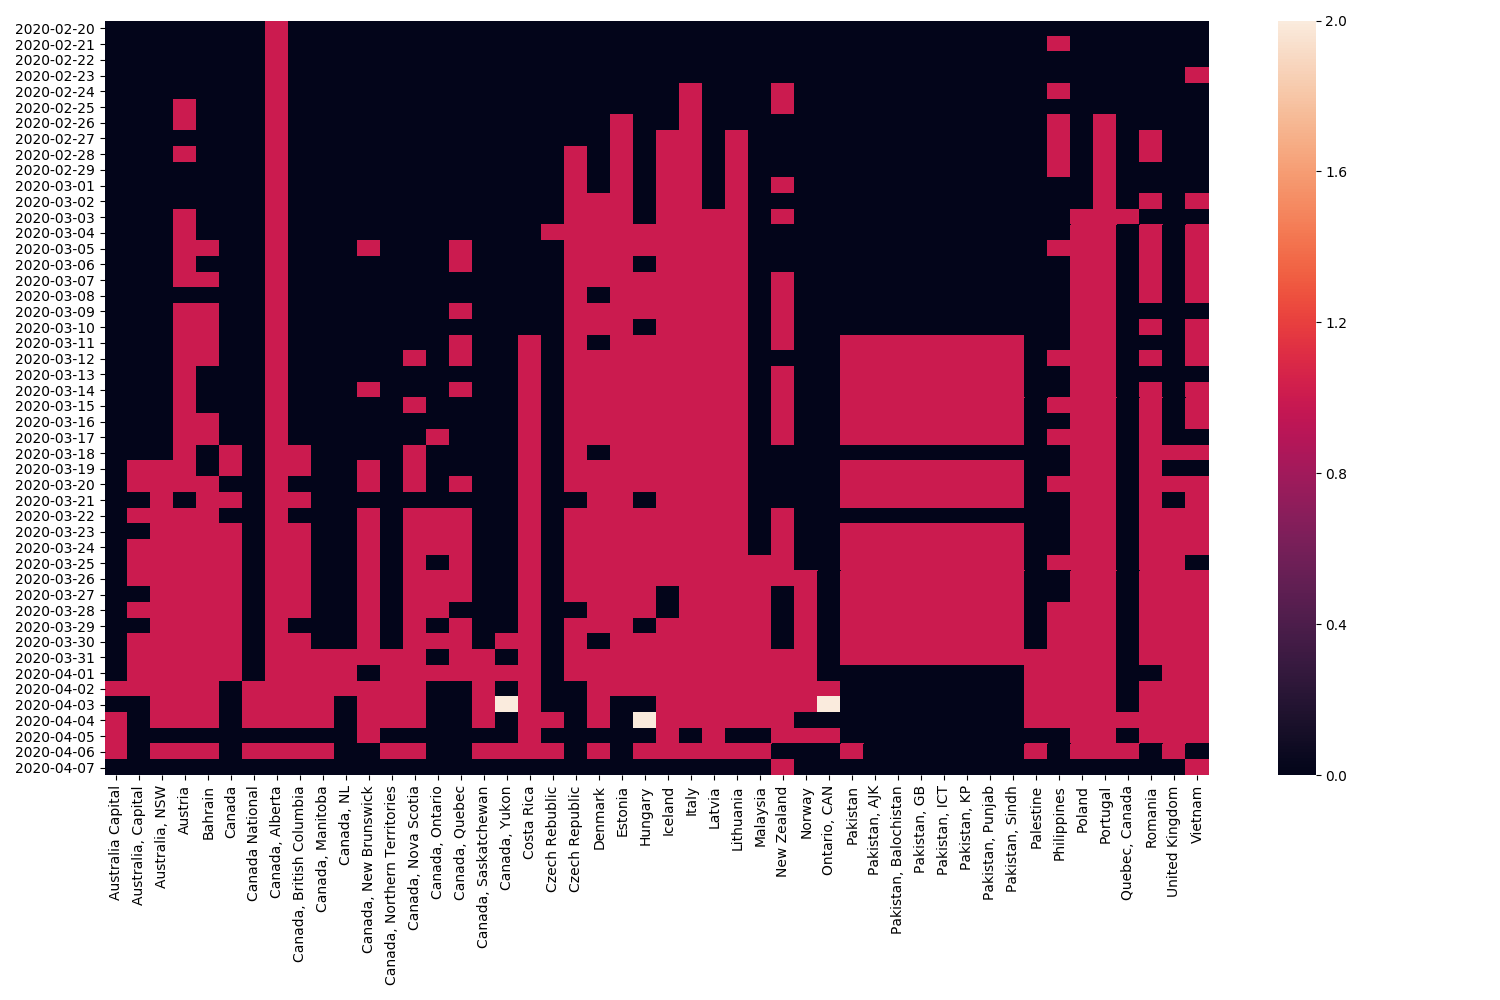
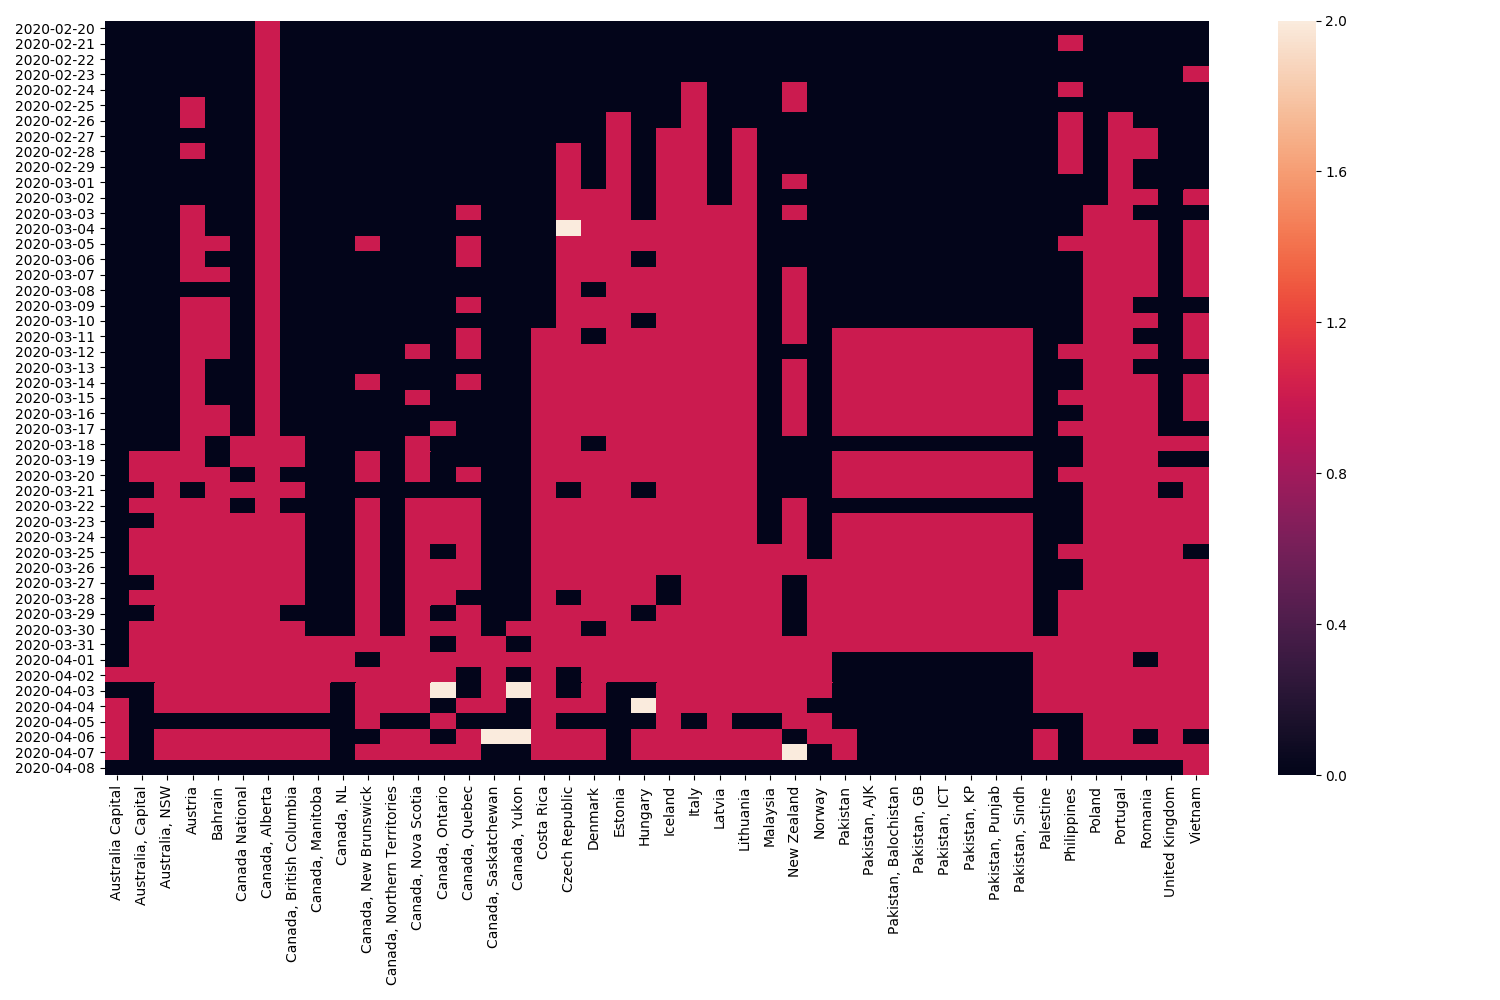
Updated spiders for Aprild 7th

Changed region(s): [[0.0, 0.031, 0.828, 0.961]]

diff --git a/covid19/spiders/international/canadaquebec.py b/covid19/spiders/international/canadaquebec.py
@@ -12,31 +12,30 @@ from dateutil.parser import parse
 
 class CanadaQuebecSpider( scrapy.Spider ):
     name = "canadaquebec"
-    allowed_domains = ["https://www.msss.gouv.qc.ca/professionnels/maladies-infectieuses/coronavirus-2019-ncov/"]
+    allowed_domains = ["https://www.quebec.ca"]
     obj = ["CanadaQuebec"]
     case_categories = ["negative", "positive", "deaths" ]
-    names = ["Quebec, Canada"]
+    names = ["Canada, Quebec"]
     custom_settings = { "LOG_LEVEL" : logging.ERROR }
 
     def start_requests( self ):
-        yield scrapy.Request( "https://www.msss.gouv.qc.ca/professionnels/maladies-infectieuses/coronavirus-2019-ncov/", callback=self.parse )
+        yield scrapy.Request( "https://www.quebec.ca/sante/problemes-de-sante/a-z/coronavirus-2019/", callback=self.parse )
 
     def parse( self, response ) :
         item = TestingStats()
 
         item_dict = { "name" : self.names[0] }
 
-        date = response.xpath( '/html/body/main/div[2]/div/section/div/div[1]/div[5]/p[1]/text()' ).get()
-        date = date.replace( "mars", "March" )
+        date = response.xpath( '/html/body/div[2]/div[3]/div/div/div/div[3]/div/div/div/p/text()' ).get()
+        date = date.replace( "avril", "April" )
         date = parse( date, fuzzy=True )
 
-        positive = response.xpath( '/html/body/main/div[2]/div/section/div/div[1]/div[5]/ul[1]/li[1]/text()' ).get()
-        positive = "".join( re.split( ' |\xa0', positive )[:2] )
+        positive = "".join( i.get() for i in response.xpath( '/html/body/div[2]/div[3]/div/div/div/div[4]/div[1]/div/div/div/p[2]/text()' ) )
 
-        negative = response.xpath( '/html/body/main/div[2]/div/section/div/div[1]/div[5]/ul[1]/li[4]/text()' ).get()
+        negative = response.xpath( '/html/body/div[2]/div[3]/div/div/div/div[4]/div[2]/div/div/div/p[2]/text()' ).get()
         negative = "".join( re.split( ' |\xa0', negative )[:2] )
 
-        deaths = response.xpath( '/html/body/main/div[2]/div/section/div/div[1]/div[5]/ul/li[2]/text()' ).get()
+        deaths = response.xpath( '/html/body/div[2]/div[3]/div/div/div/div[4]/div[4]/div/div/div/p[2]/text()' ).get()
         deaths = re.split( ' |\xa0', deaths )[0]
 
         item["date"] = date.strftime( "%Y-%m-%d" )

diff --git a/covid19/spiders/international/canadant.py b/covid19/spiders/international/canadant.py
@@ -21,11 +21,11 @@ class CanadaNTSpider( scrapy.Spider ) :
     def parse( self, response ):
         item = TestingStats()
 
-        confirmed = response.xpath( '/html/body/div[1]/div/div[5]/main/div/div[2]/div[2]/div/div/ul[1]/li[1]/b/text()' ).get()
+        confirmed = response.xpath( '/html/body/div/div/div[5]/main/div/div[2]/div[2]/div/div/ul[1]/li[1]/b/text()' ).get()
 
-        negative = response.xpath( '/html/body/div[1]/div/div[5]/main/div/div[2]/div[2]/div/div/ul[1]/li[3]/strong/text()' ).get()
+        negative = response.xpath( '/html/body/div/div/div[5]/main/div/div[2]/div[2]/div/div/ul[1]/li[3]/strong/text()' ).get()
 
-        pending = response.xpath( '/html/body/div[1]/div/div[5]/main/div/div[2]/div[2]/div/div/ul[1]/li[4]/strong/text()' ).get()
+        pending = response.xpath( '/html/body/div/div/div[5]/main/div/div[2]/div[2]/div/div/ul[1]/li[4]/b/text()' ).get()
 
         #deaths_paragraph = response.xpath( '/html/body/form/div[5]/div/span/div[1]/div/div/div[3]/article/div/div/div[2]/div[1]/div/ul/ul/li[2]/text()' ).get()
         #deaths = re.split( ' |\xa0', deaths_paragraph )[0]

diff --git a/covid19/spiders/international/canadaontario.py b/covid19/spiders/international/canadaontario.py
@@ -31,12 +31,12 @@ class CanadaOntarioSpider( scrapy.Spider ):
             value = row.xpath( "td[2]/text()" ).get()
             item_dict[self.case_categories[i]] = int( value )
 
-        item["date"] = "2020-04-05"
-        item["name"] = "Ontario, CAN"
-        item["negative"] = 78796-4347
-        item["positive"] = 4347
-        item["deaths"] = 132
-        item["pending"] = 329
+        item["date"] = "2020-04-07"
+        item["name"] = self.names[0]
+        item["negative"] = 81364-4726
+        item["positive"] = 4726
+        item["deaths"] = 153
+        item["pending"] = 691
 
         print( item.toAsciiTable() )
         return item

diff --git a/covid19/spiders/international/canadamanitoba.py b/covid19/spiders/international/canadamanitoba.py
@@ -25,9 +25,9 @@ class CanadaManitobaSpider( scrapy.Spider ) :
         #confirmed = re.split( ' |\xa0', confirmed_paragraph )[0]
 
         totals_paragraph = response.xpath( '/html/body/div[4]/div/div/div[3]/div[1]/div/p[11]/text()' ).get()
-        totals = totals_paragraph.split( "," )[-1]
+        totals = totals_paragraph.replace( ",", "" )
 
-        totals = "".join( totals.split( " " )[1:3] )
+        totals = totals.split( " " )[4]
         print( totals )
 
         deaths = response.xpath( '/html/body/div[4]/div/div/div[3]/div[1]/div/table/tbody/tr[7]/td[5]/p/strong/text()' ).get()

diff --git a/covid19/spiders/international/czechrebublic.py b/covid19/spiders/international/czechrebublic.py
@@ -10,7 +10,7 @@ import logging
 class CzechRebublicSpider(scrapy.Spider):
     name = 'czechrebublic'
     allowed_domains = ['https://onemocneni-aktualne.mzcr.cz']
-    names = ["Czech Rebublic"]
+    names = ["Czech Republic"]
     case_categories = ["positive", "negative"]
     custom_settings = {"LOG_LEVEL" : logging.ERROR }
 
